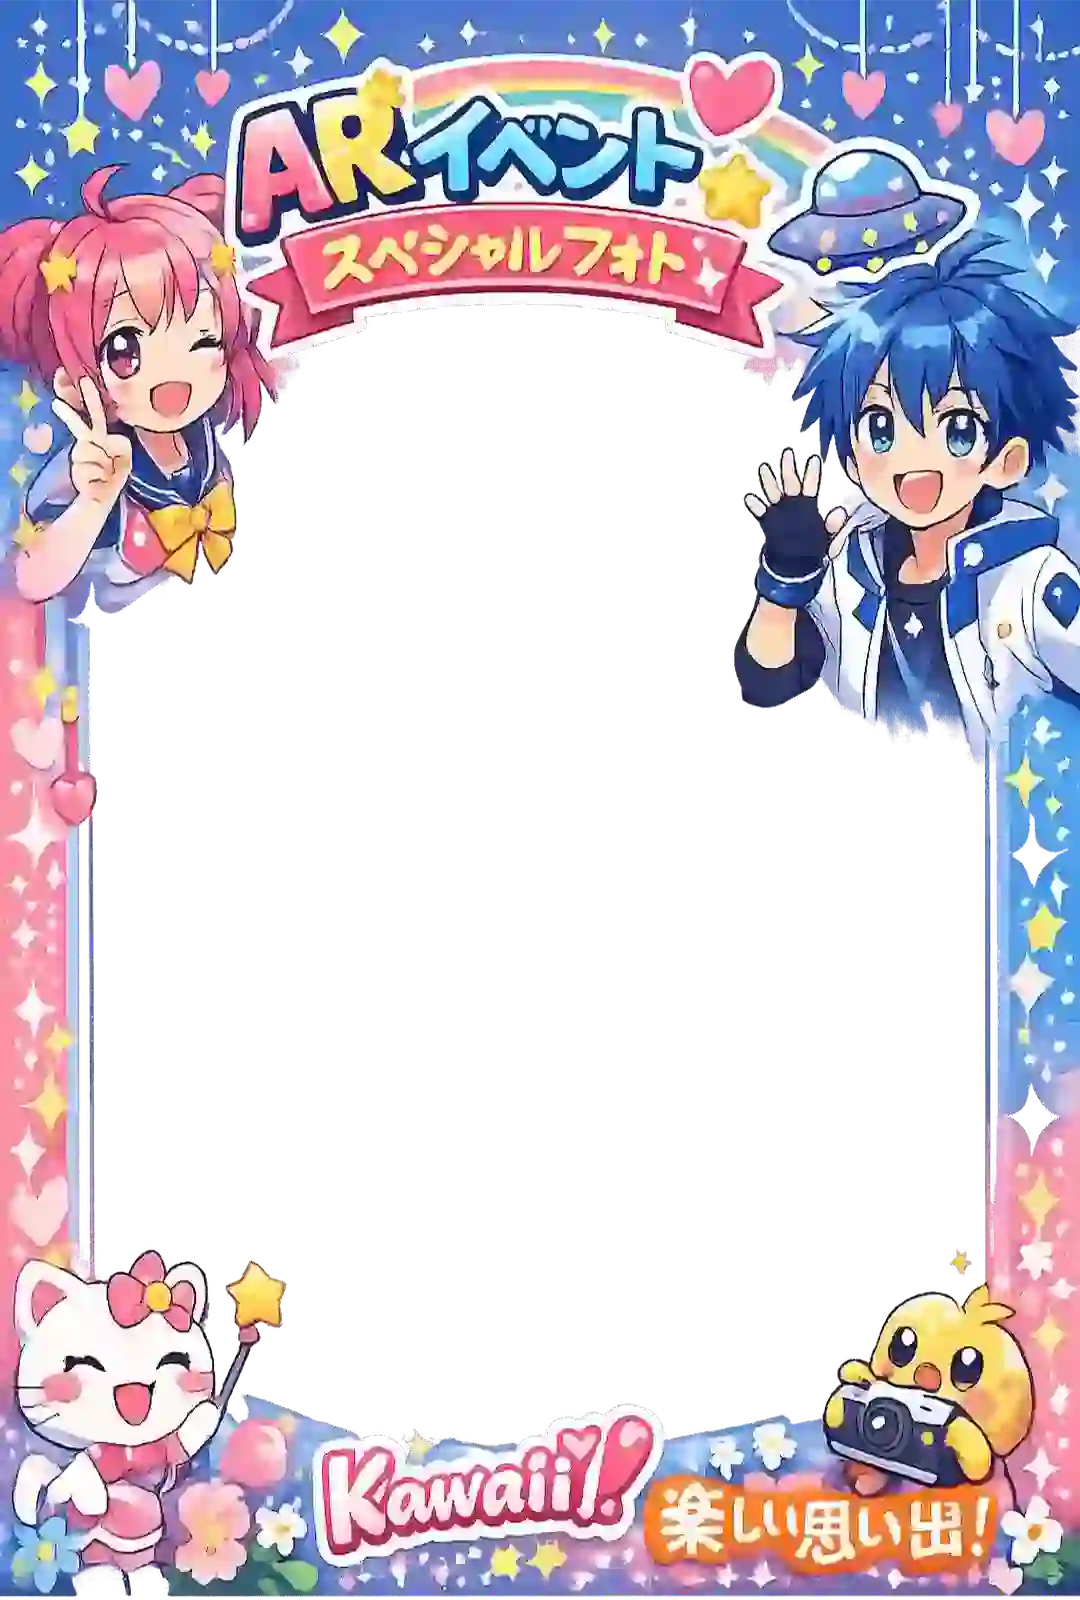
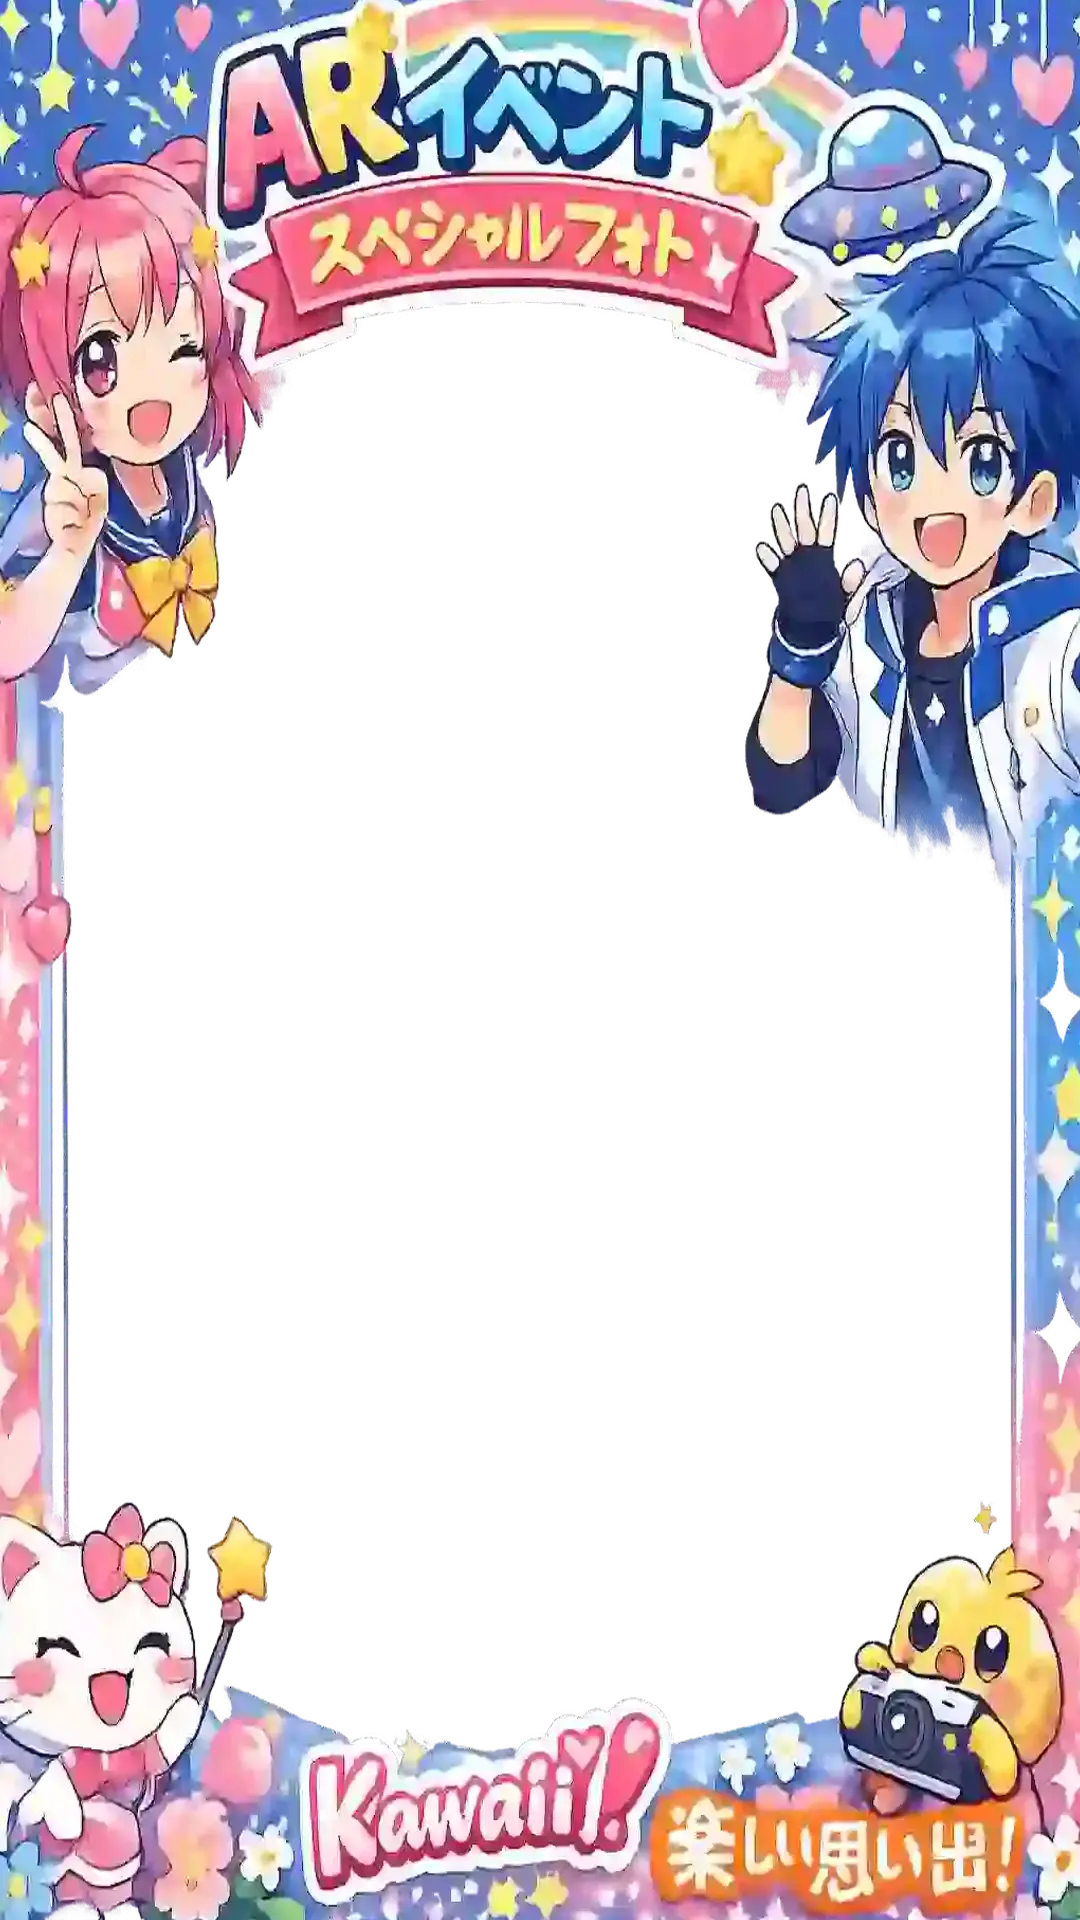
send

diff --git a/js/photoframe.js b/js/photoframe.js
@@ -4,8 +4,8 @@ let currentStream = null;
 let facingMode = "user";
 let selectedFrame = "assets/photoframe/frame01.webp";
 
-const FRAME_WIDTH = 800;
-const FRAME_HEIGHT = 1600;
+const FRAME_WIDTH = 1080;
+const FRAME_HEIGHT = 1920;
 
 const frames = Array.from(
     { length: 14 },